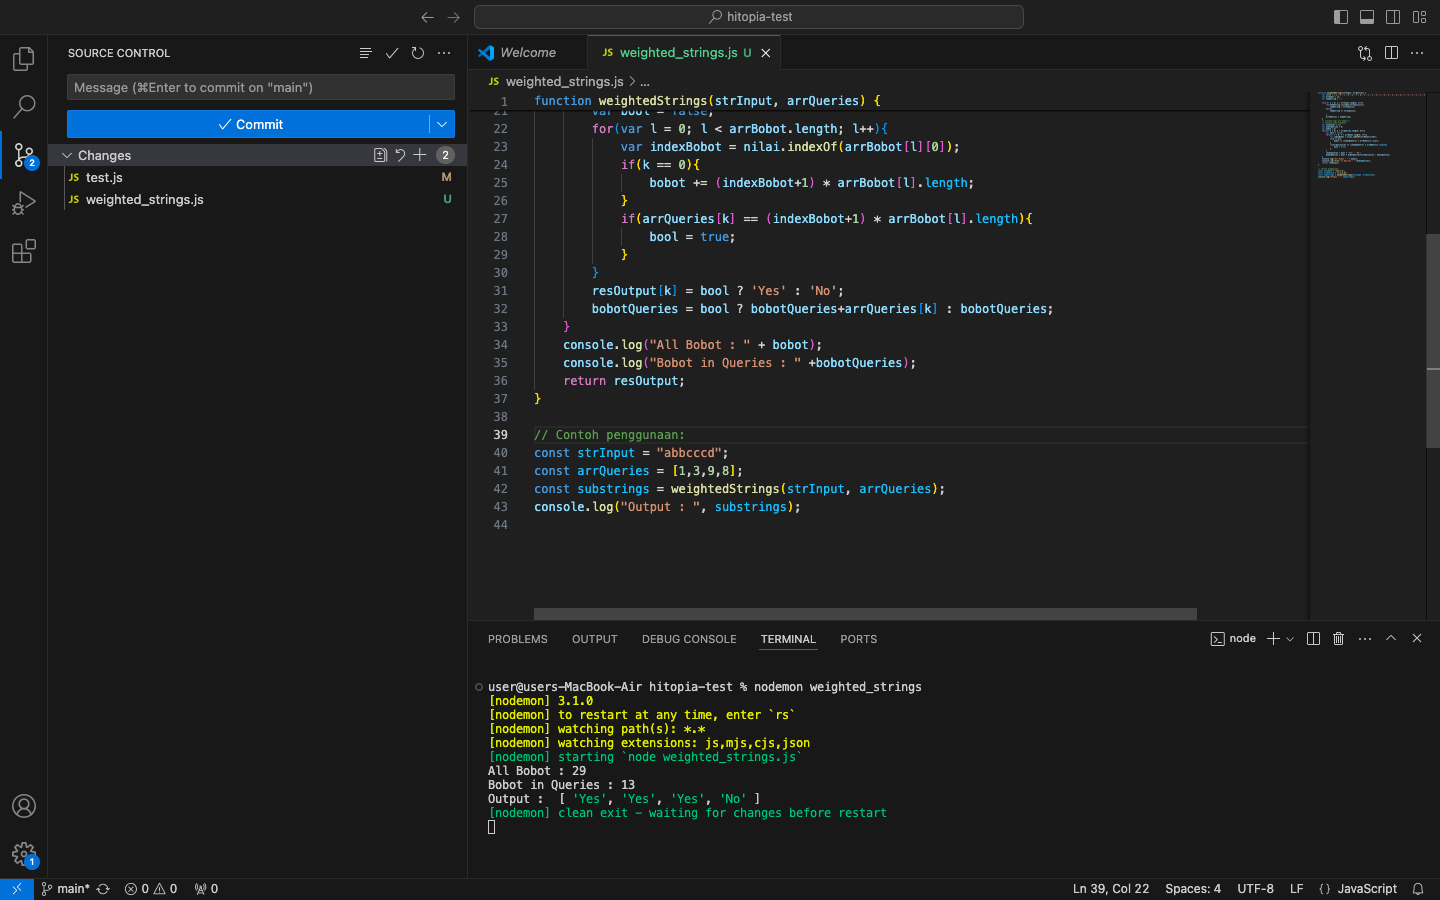
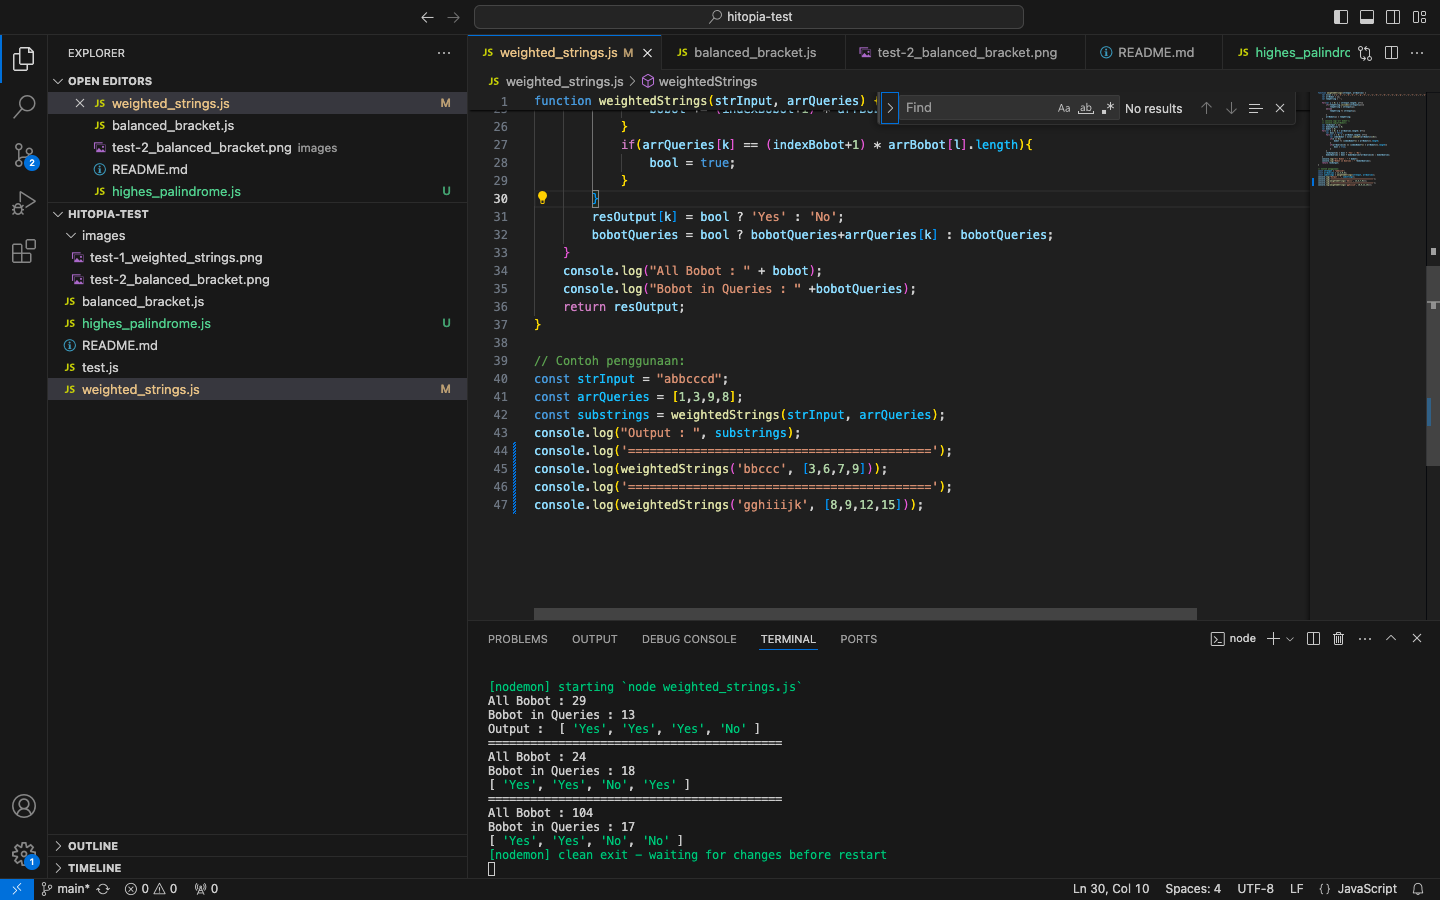
test 3 palindrome

diff --git a/highes_palindrome.js b/highes_palindrome.js
@@ -1,0 +1,183 @@
+var arrTemp = [];
+var arrData = [];
+var iterArr = 0;
+var iterData = 0;
+var nilailength;
+var palindrome2;
+var isLengthGenap = false;
+var highesData = 0;
+var setengahLength = 0;
+var fullLength = 0;
+var a = '', z = '';
+var tempK = null;
+var sisaNilai;
+
+function highesPalindrome(nilaiawal, k) {
+    nilailength = nilaiawal.length;
+    if(tempK == null){
+        tempK = k;
+        fullLength = nilailength;
+        if(nilailength % 2 == 0){
+            setengahLength = nilailength / 2;
+        }else{
+            setengahLength = (nilailength / 2) + 1;
+        }
+    }
+    if (nilailength <= 1){
+
+        if(nilailength == 1){
+            arrTemp[iterArr] = nilaiawal[0];
+        }
+        if(tempK > 1){
+            palindrome2 = '';
+            for(var l = 0; l < arrTemp.length; l++){
+                palindrome2 += arrTemp[l];
+            }
+            return highesPalindrome2(palindrome2, tempK);
+        }else if(tempK == 1){
+            if(arrData.length > 0){
+                arrTemp[arrData[0][0]] = '9';
+                arrTemp[arrData[0][1]] = '9';
+                arrData.shift();
+                tempK--;
+            }else{
+                arrTemp[iterArr] = '9';
+            }
+            if(nilailength == 1 && tempK > 0){
+                arrTemp[iterArr] = '9';
+                tempK--;
+            }
+        }
+        // console.log(arrTemp);
+        return arrTemp.join("");
+    }
+    a = nilaiawal[0];
+    z = nilaiawal[nilailength-1];
+    // console.log(`nilai a : ${a}`);
+    // console.log(`nilai z : ${z}`);
+    if(a == z){
+        // arrTemp[0] = a;
+        arrTemp[iterArr] = a;
+        arrTemp[fullLength - 1 - iterArr] = z;
+        iterArr++;
+    }else{
+        if(tempK > 0){
+            if(a > z){
+                z = a;
+            }else{
+                a = z;
+            }
+            if(a != '9'){
+                arrData[iterData] = [iterArr, fullLength - 1 - iterArr];
+                iterData++;
+            }
+            console.log(arrData);
+            arrTemp[iterArr] = a;
+            arrTemp[fullLength - 1 - iterArr] = z;
+            iterArr++;
+            tempK--;
+        }else{
+            return -1;
+        }
+    }
+    if(nilailength > 1){
+        sisaNilai = nilaiawal.slice(1, -1);
+    }
+    // console.log(arrTemp);
+    // console.log();
+    // console.log(tempK);
+    
+    // if(nilailength % 2 == 0){
+    // }else{
+    // }
+    // Kasus Basis
+    // return 1;
+    setengahLength--;
+    if (setengahLength <= 0) {
+        return 1;
+    }
+    // Langkah Rekursif
+    return highesPalindrome(sisaNilai, tempK);
+}
+
+function highesPalindrome2(nilaiawal, k){
+    nilailength = nilaiawal.length;
+    if(tempK == k){
+        iterArr=0;
+        fullLength = nilailength;
+        if(nilailength % 2 == 0){
+            setengahLength = nilailength / 2;
+        }else{
+            setengahLength = (nilailength / 2) + 1;
+        }
+    }
+    if (nilailength <= 1){
+
+        if(tempK >= 1){
+            if(nilailength == 1){
+                // console.log(`masuk sini ${iterArr}`) ;
+                if(arrData.length > 0){
+                    arrTemp[arrData[0][0]] = '9';
+                    arrTemp[arrData[0][1]] = '9';
+                    arrData.shift();
+                }else{
+                    arrTemp[iterArr] = '9';
+                }
+                tempK--;
+                return highesPalindrome2(sisaNilai, k);
+            }
+        }
+        return arrTemp.join("");
+    }
+    a = nilaiawal[0];
+    z = nilaiawal[nilailength-1];
+    console.log(`nilai a : ${a}`);
+    console.log(`nilai z : ${z}`);
+    if(a != '9'){
+        if(tempK > 1){
+            arrTemp[iterArr] = '9';
+            arrTemp[fullLength - 1 - iterArr] = '9';
+            if(iterArr == arrData[0][0]){
+                tempK = tempK - 2;
+                arrData.slice();
+            }else{
+                tempK = tempK - 2;
+            }
+        }else{
+            if(setengahLength % 2 == 0){
+                arrTemp[setengahLength -1] = '9';
+                tempK--;
+            }
+            return arrTemp.join("");
+        }
+    }
+    iterArr++;
+    console.log(`nilai awal ${nilaiawal}`);
+    if(nilailength > 1){
+        sisaNilai = nilaiawal.slice(1, -1);
+    }
+    console.log(arrTemp);
+    console.log(tempK);
+    
+    // if(nilailength % 2 == 0){
+    // }else{
+    // }
+    // Kasus Basis
+    // return 1;
+    setengahLength--;
+    if (setengahLength <= 0) {
+        return 1;
+    }
+    // Langkah Rekursif
+    return highesPalindrome2(sisaNilai, k);
+}
+// function createResult(){
+//     // return arrTemp.join("");
+//     var result = '';
+//     for(var l = 0; l < arrTemp.length; l++){
+//         result += arrTemp[l];
+//     }
+//     return result;
+// }
+
+console.log('Output : ' + highesPalindrome('35343', '5'));

diff --git a/weighted_strings.js b/weighted_strings.js
@@ -41,3 +41,7 @@ const strInput = "abbcccd";
 const arrQueries = [1,3,9,8];
 const substrings = weightedStrings(strInput, arrQueries);
 console.log("Output : ", substrings);
+console.log('==========================================');
+console.log(weightedStrings('bbccc', [3,6,7,9]));
+console.log('==========================================');
+console.log(weightedStrings('gghiiijk', [8,9,12,15]));
